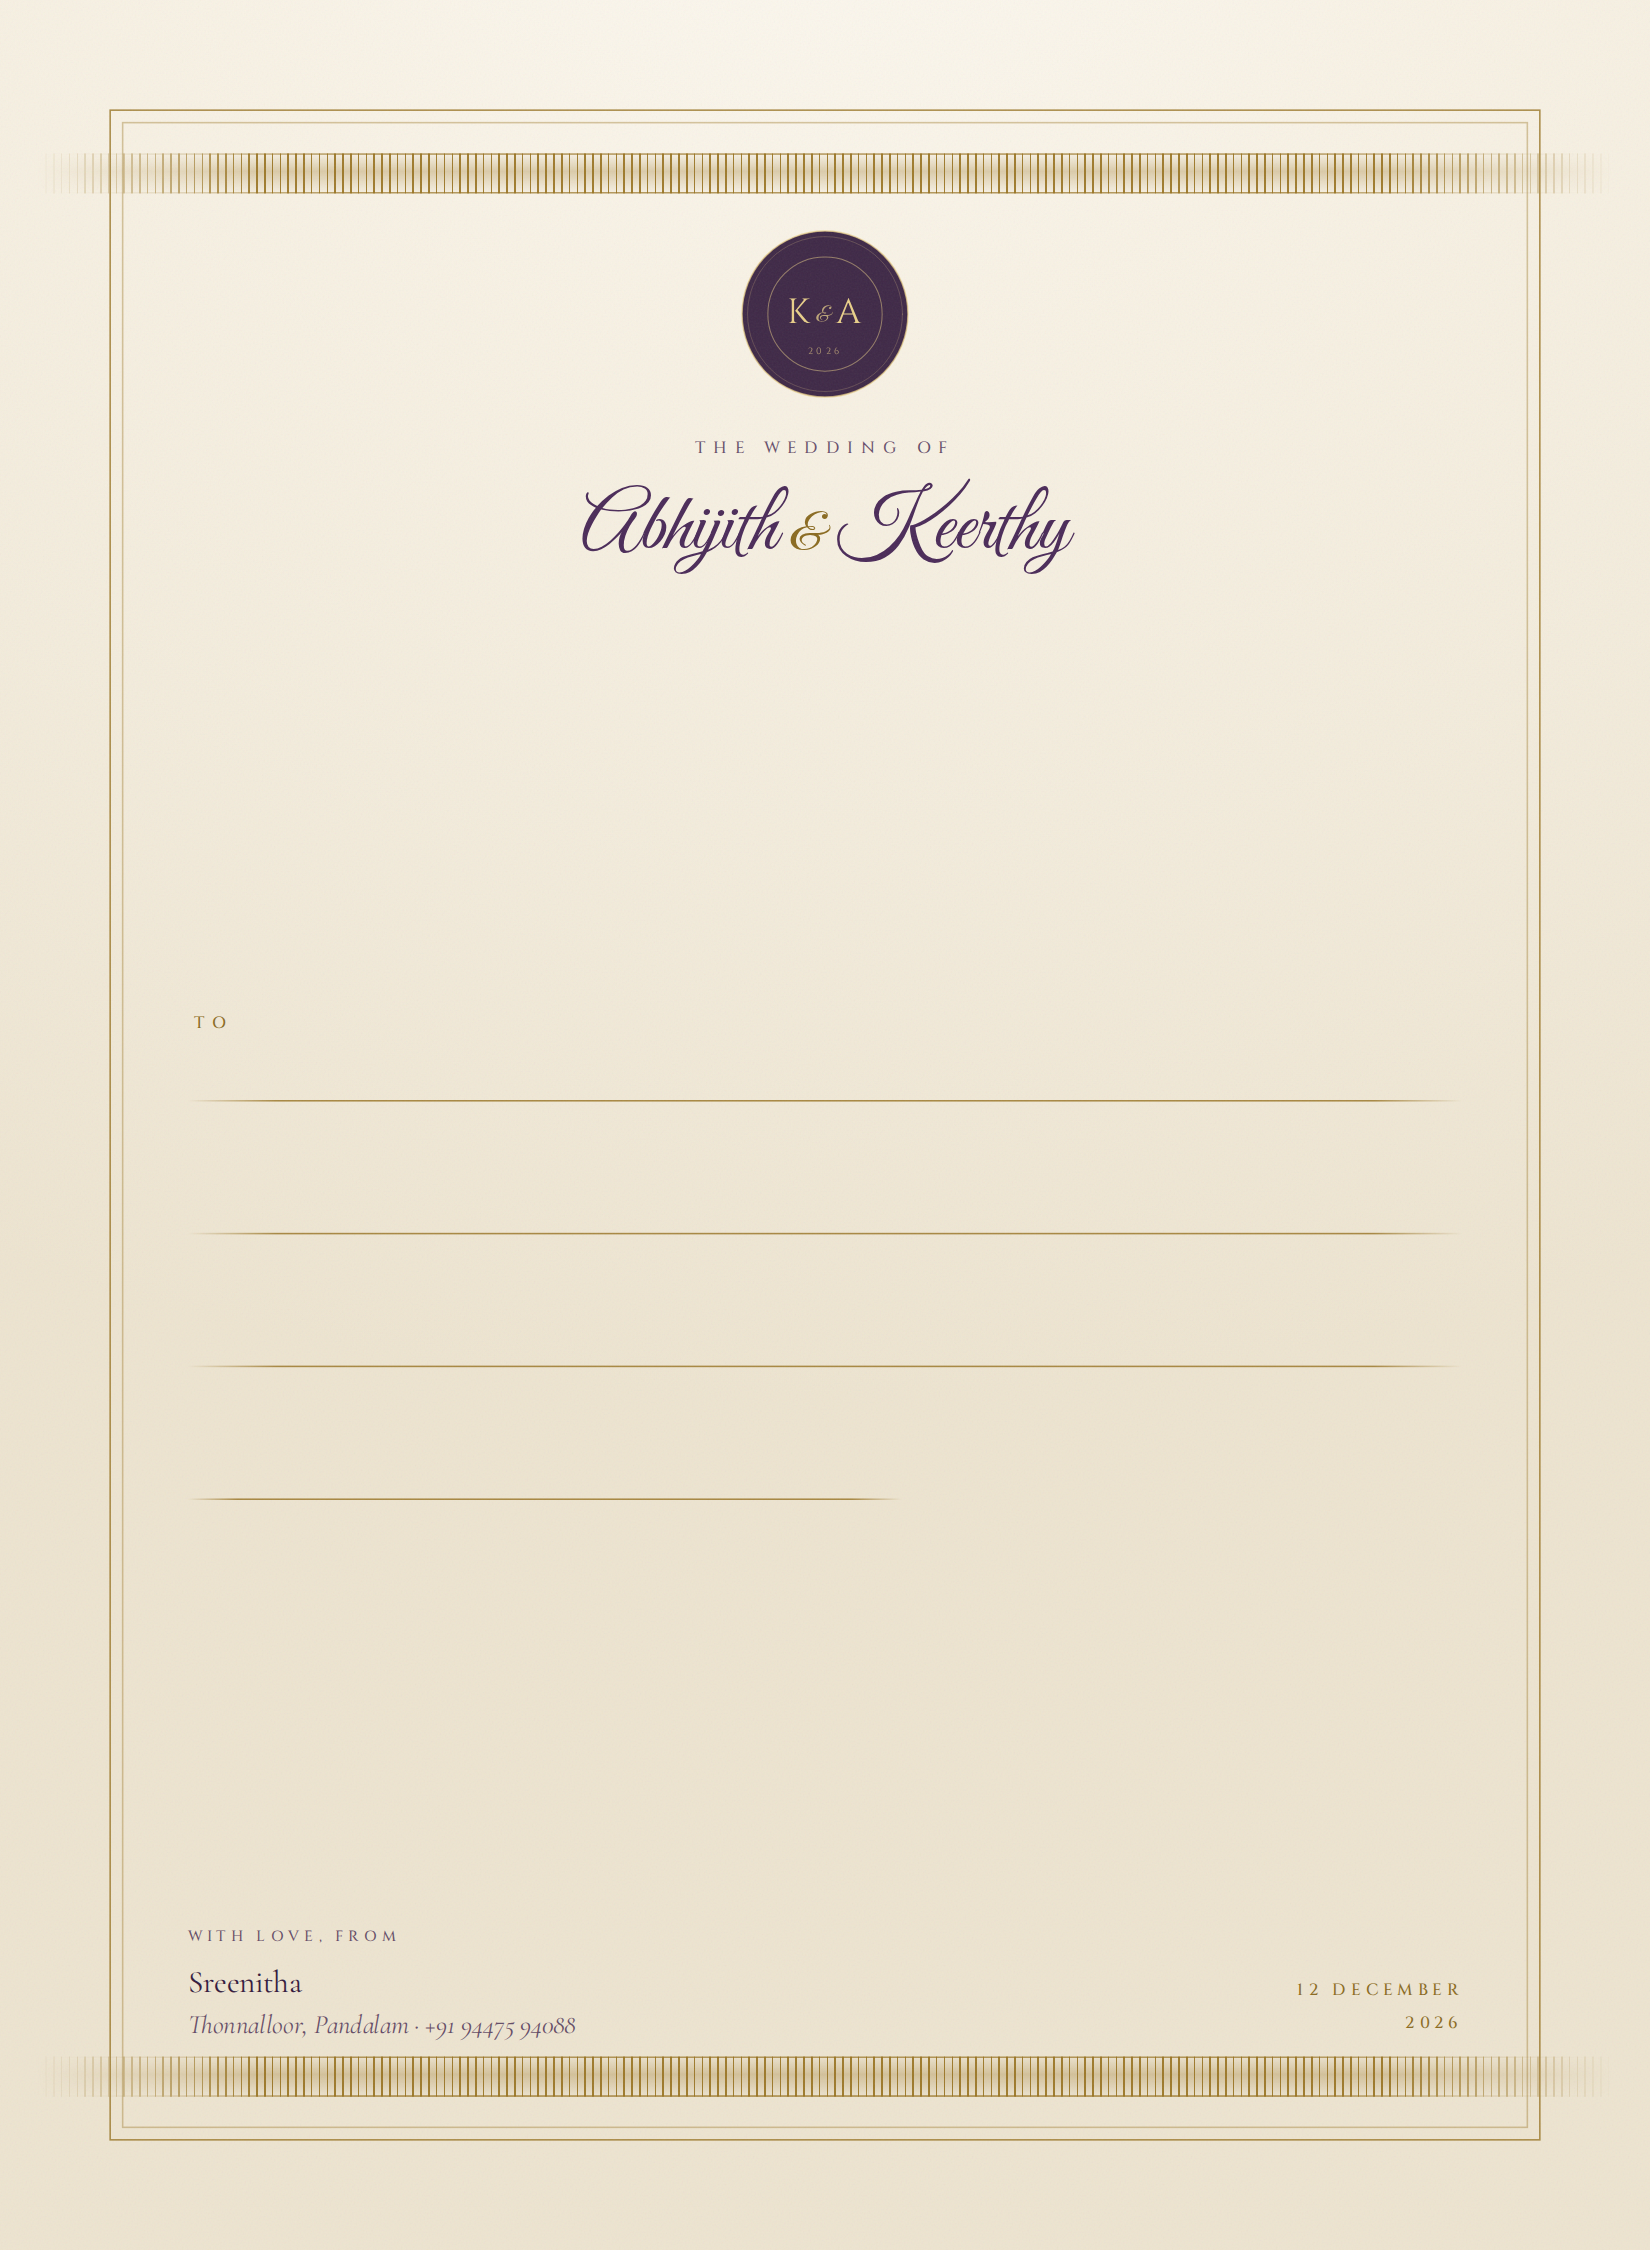
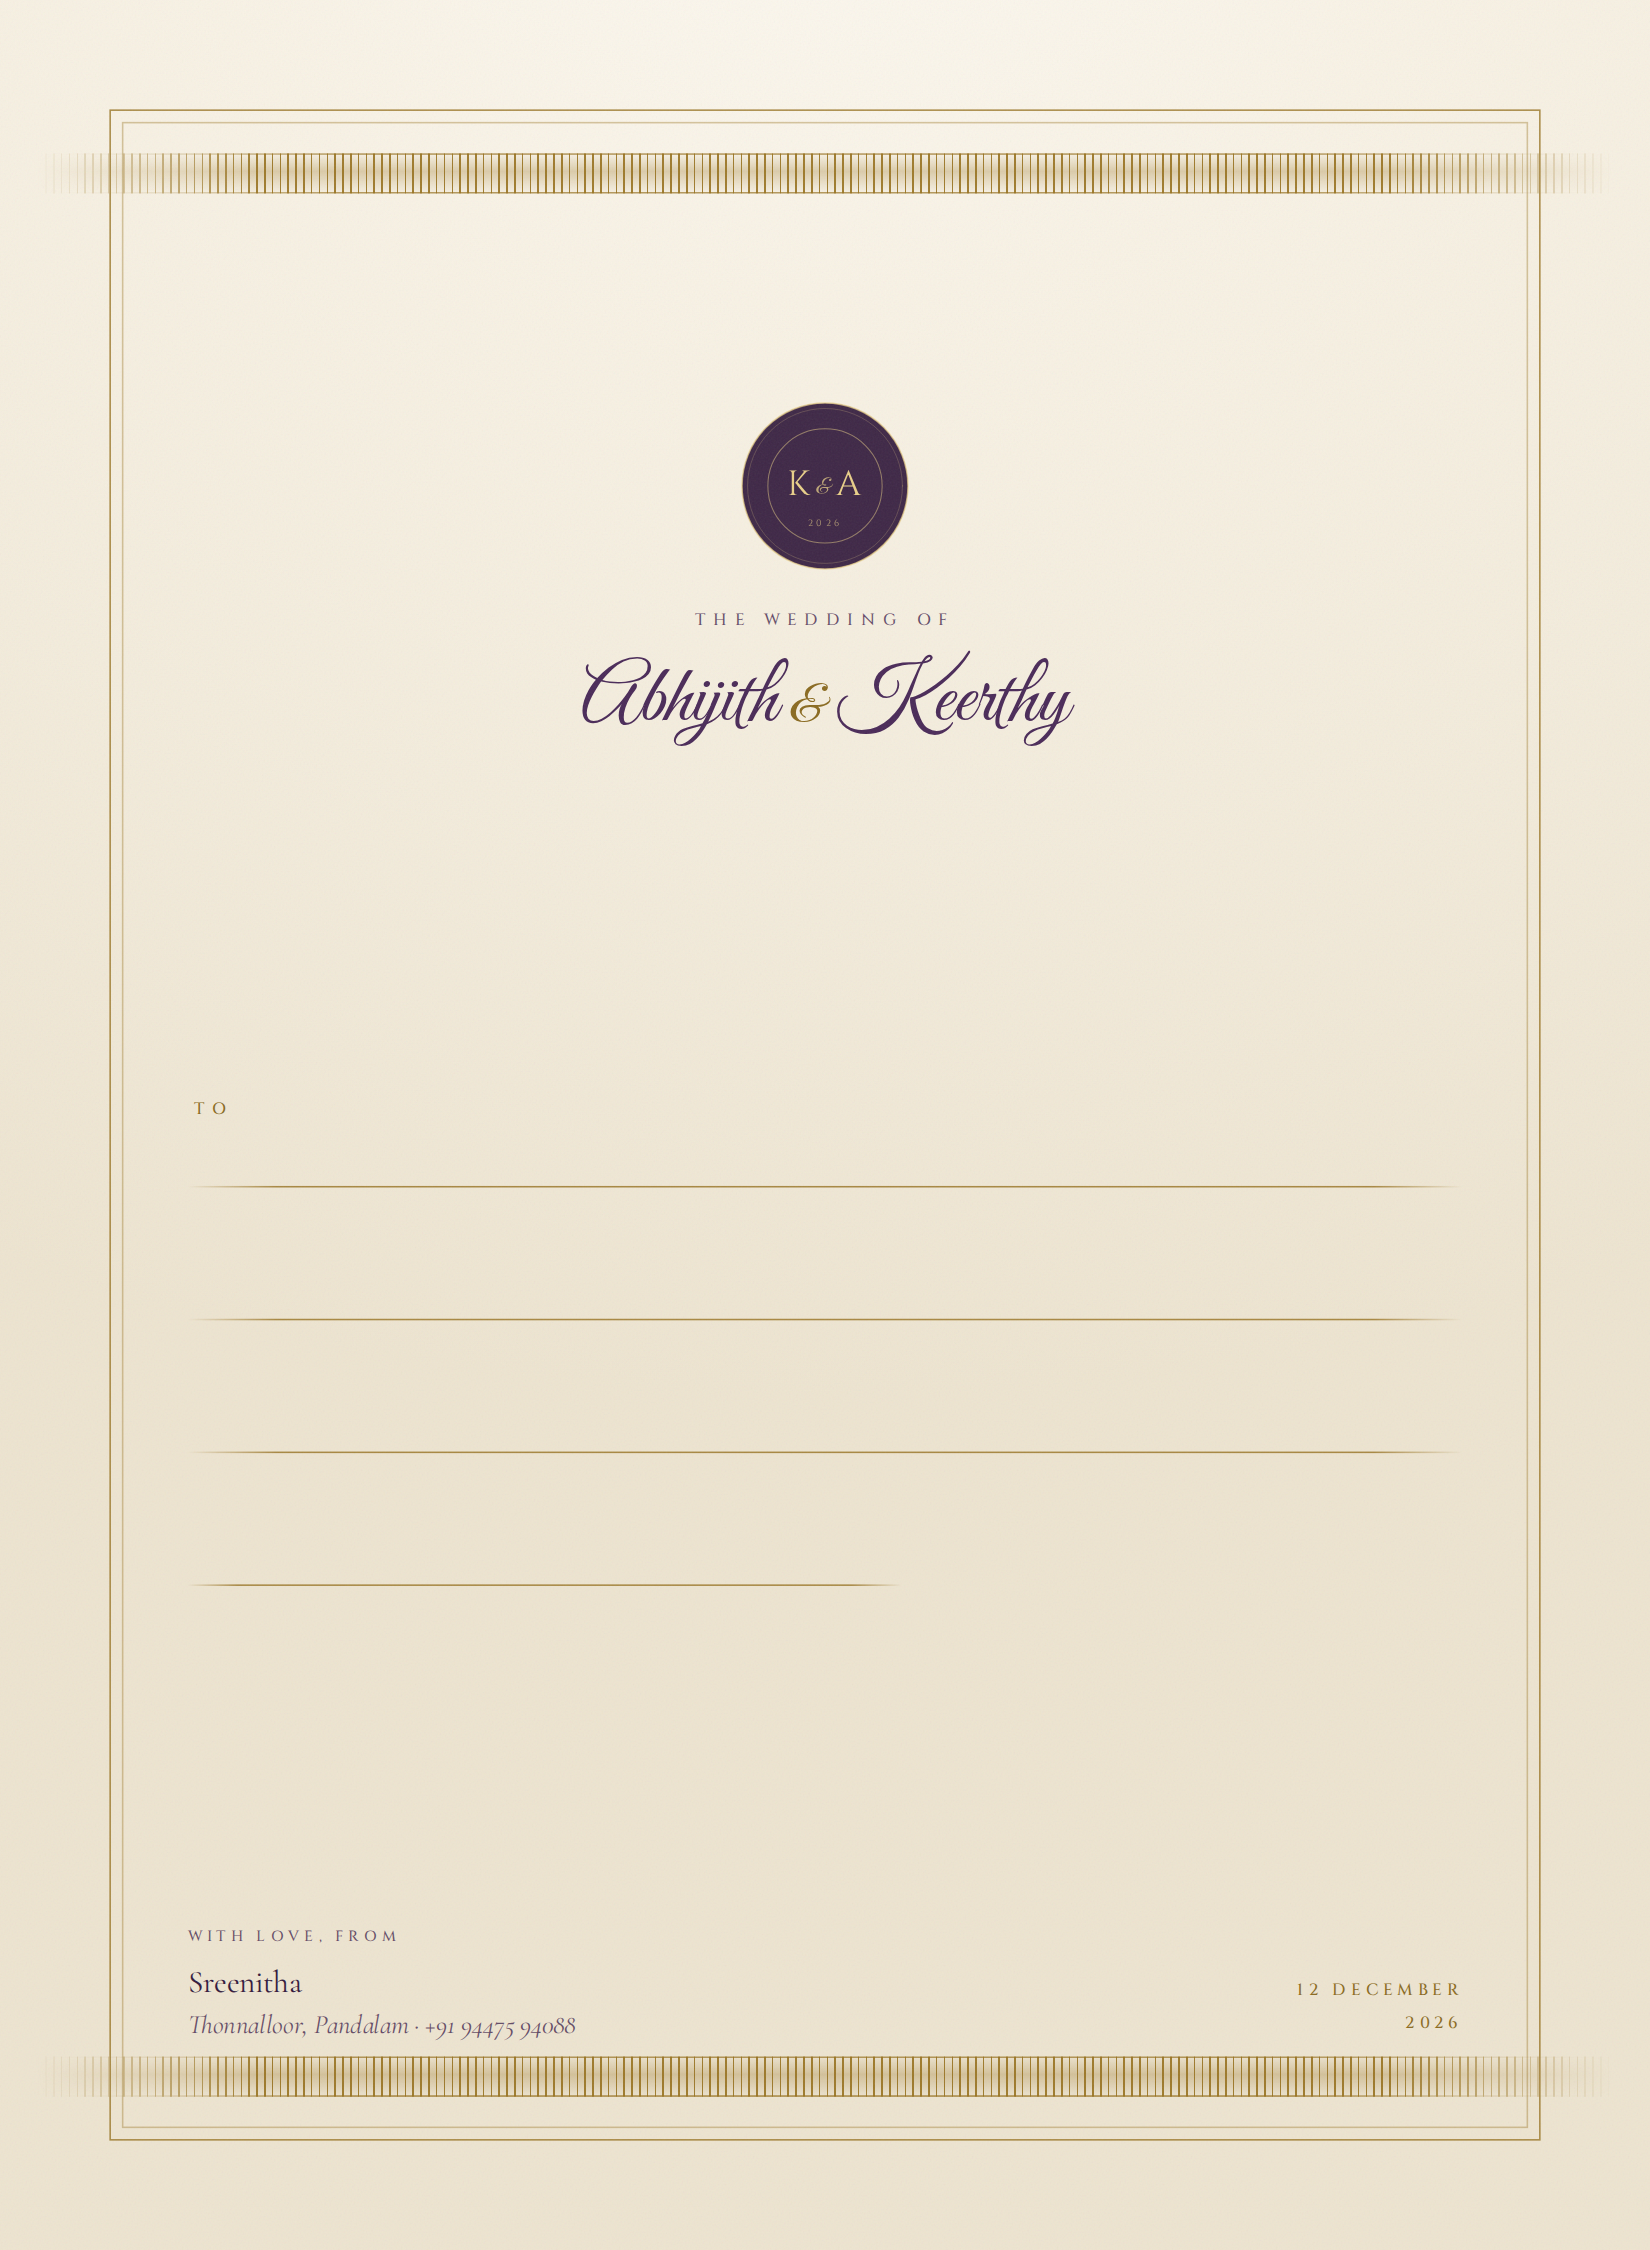
Drop the head block on the envelope front
The crest, "the wedding of" and the names sat tight under the top kasavu band
with a long empty drop to the address lines — about 18px above and 265px
below. Starting the stack lower evens the two out, so the head reads as
placed rather than pushed against the band.

Front only; the flap on the back is unchanged.

Claude-Session: https://claude.ai/code/session_01U3eNzvzbkYwe2F9QhNWExs

Changed region(s): [[0.34, 0.0933, 0.6491, 0.3422], [0.5255, 0.28, 0.6491, 0.3422]]

diff --git a/invitation/envelope-front.html b/invitation/envelope-front.html
@@ -9,7 +9,9 @@
      middle, the sender at the foot — spread so the panel never goes hollow. */
   .stack {
     position: absolute;
-    inset: 118px 96px 110px;
+    /* The head sat tight under the top band with a long drop to the address
+       lines. Starting it lower evens the two gaps out. */
+    inset: 228px 96px 110px;
     display: flex;
     flex-direction: column;
     align-items: center;
